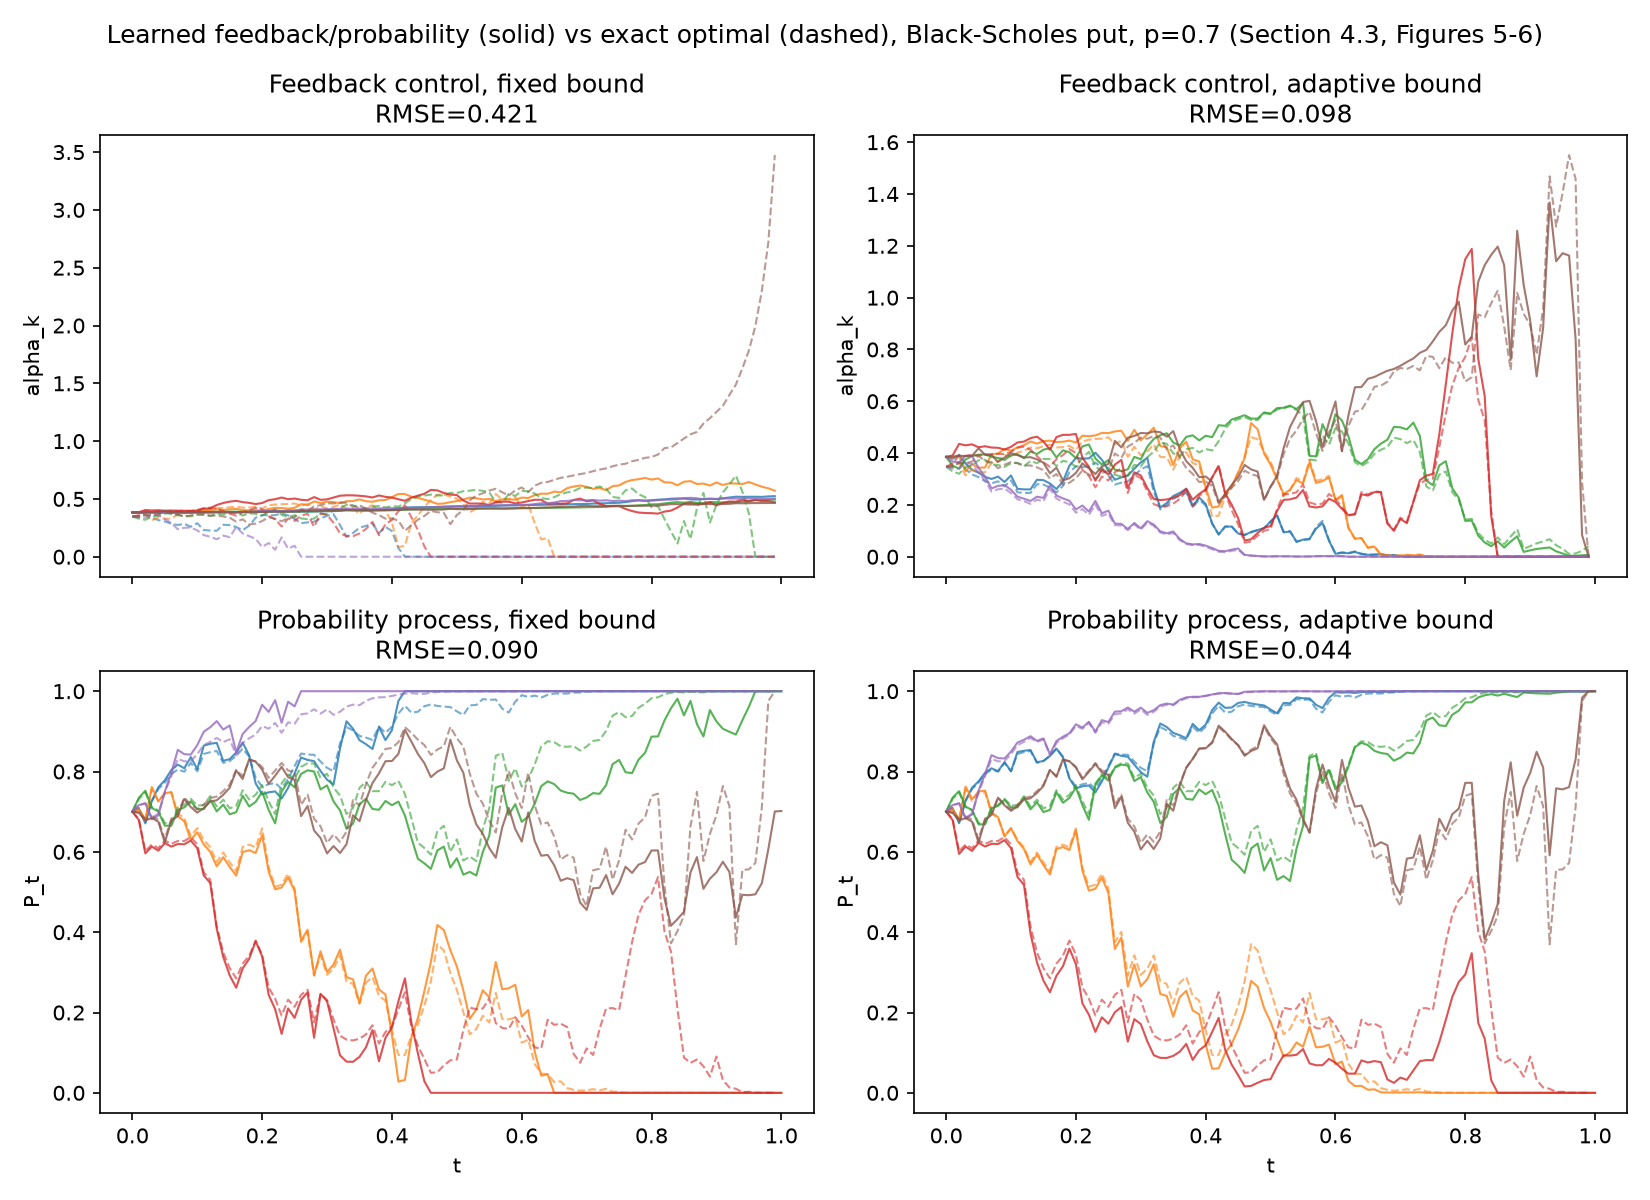
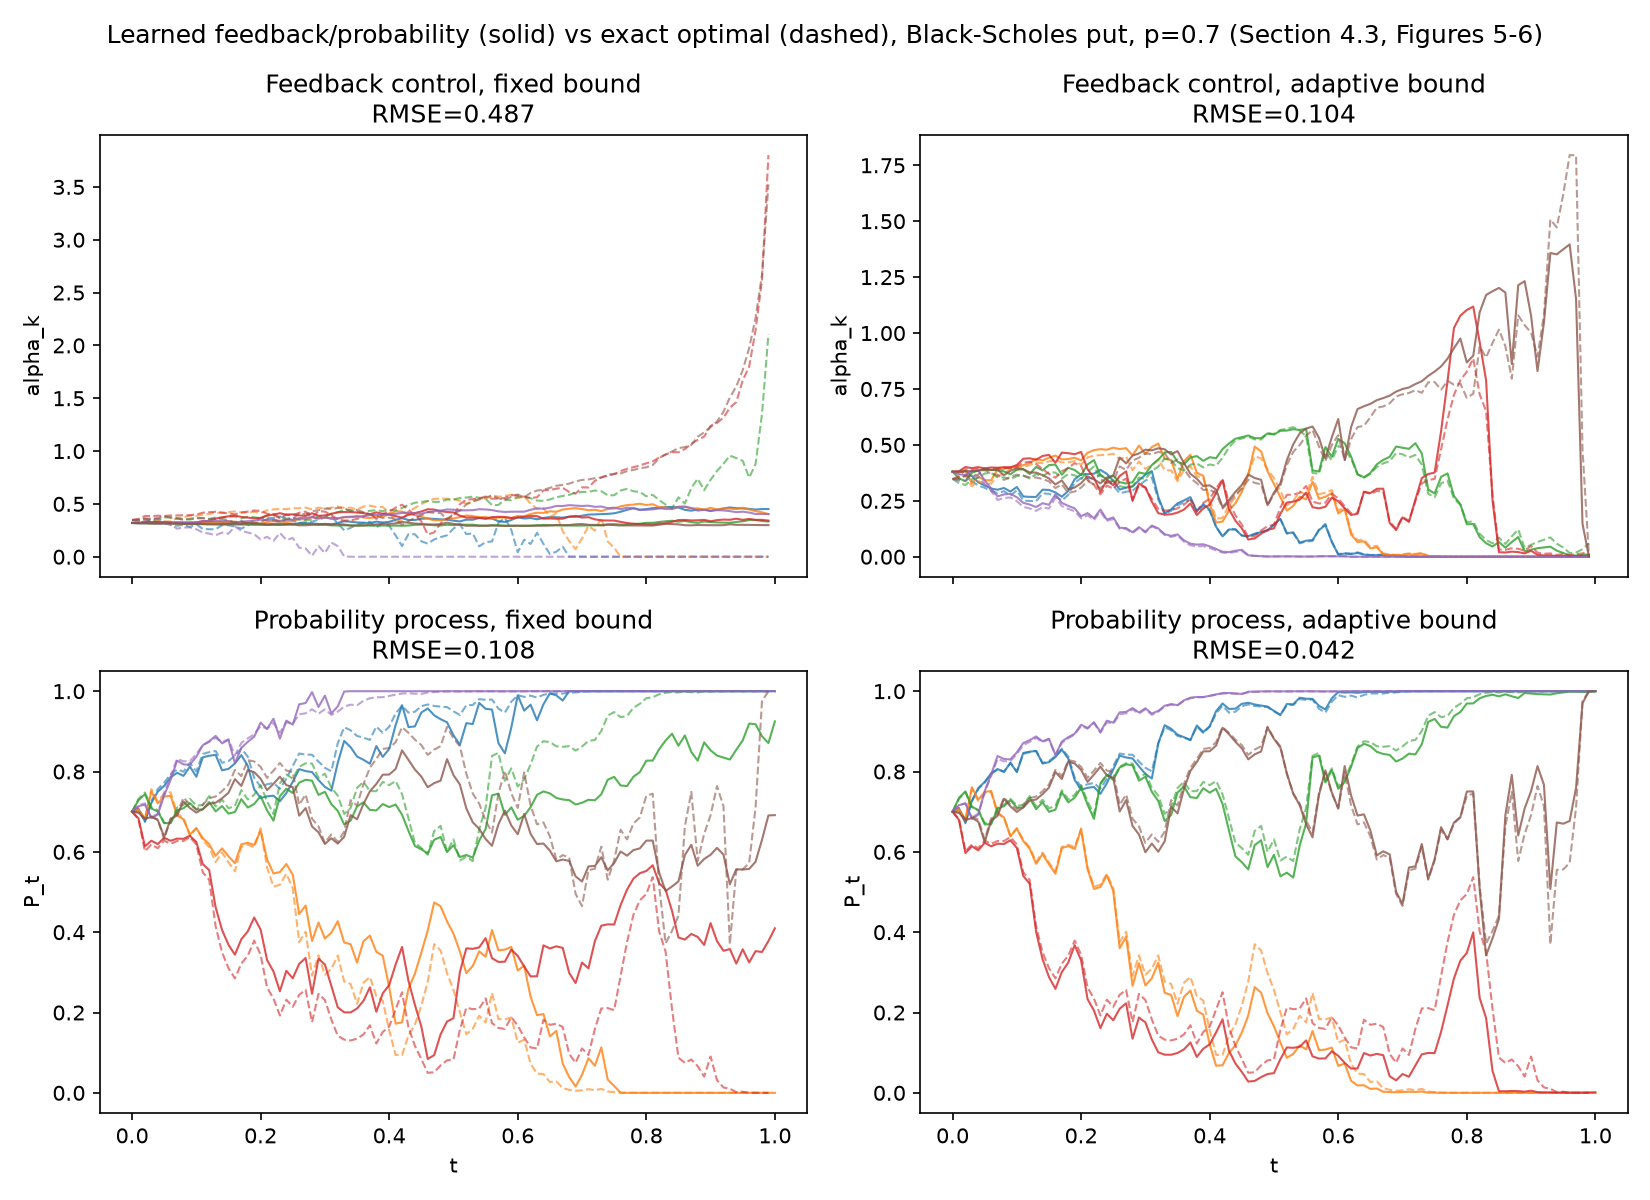
Finalize exp3-7 metrics in RESULTS.md with verdicts and sensitivity checks

diff --git a/src/config.py b/src/config.py
@@ -69,7 +69,7 @@ FIN_N_ITERATIONS = 500    # training iterations (Figure 3 caption)
 
 BS_REFERENCE_SAMPLES = 2 ** 20      # closed-form reference sample size (Section 4.3)
 LV_REFERENCE_PATHS = 2 ** 18        # Monte-Carlo reference path count (Section 4.3)
-LV_REFERENCE_PATHS_RUN = 2 ** 15    # reduced path count actually executed (time budget)
+LV_REFERENCE_PATHS_RUN = 2 ** 15    # reduced path count executed to fit the replication's time limit
 LV_REFERENCE_STEPS = 1000           # Euler steps for the MC reference (Section 4.3)
 LV_REFERENCE_STEPS_CHECK = 500      # coarser grid used for the convergence check (Section 4.3)
 
@@ -107,7 +107,7 @@ N_SAMPLE_TRAJECTORIES = 6   # number of test paths plotted (not specified exactl
 QUICK_BATCH_SIZE = BATCH_SIZE    # batch size L_batch is kept at the paper's value
 QUICK_VAL_SIZE = 2 ** 12
 QUICK_TEST_SIZE = 2 ** 13
-QUICK_N_ITERATIONS_SCALE = 1.0   # iteration counts (the method's convergence budget) are kept
+QUICK_N_ITERATIONS_SCALE = 1.0   # Adam training-iteration counts are kept at the paper's values
 # Validating every iteration on the full paper validation sample is the
 # dominant cost; validating every 25 iterations keeps the validation-based
 # model selection of Algorithm 1 (step 8) while fitting the available

diff --git a/results/RESULTS.md b/results/RESULTS.md
@@ -68,15 +68,15 @@ sample of 2^15 standard normals (paper: 2^20; see deviations).
 | p | reference | fixed | adaptive | verdict |
 |---|---|---|---|---|
 | 0.0 | 0.000 | 0.0000 | 0.0000 | reproduced |
-| 0.2 | 0.000 | 0.0003 | 0.0000 | reproduced |
-| 0.4 | 0.000 | 0.3048 | 0.0009 | partially reproduced |
-| 0.6 | 0.000 | 0.3358 | 0.0428 | partially reproduced |
-| 0.8 | 0.687 | 2.4469 | 0.9661 | partially reproduced |
+| 0.2 | 0.000 | 0.0001 | 0.0001 | reproduced |
+| 0.4 | 0.000 | 0.1936 | 0.0003 | partially reproduced |
+| 0.6 | 0.000 | 0.7879 | 0.0350 | partially reproduced |
+| 0.8 | 0.687 | 2.3697 | 0.9512 | partially reproduced |
 | 1.0 | 7.797 | 7.7973 | 7.7973 | reproduced |
 
 **Verdict: partially reproduced.** The paper's Figure 3a reports, at p=0.8,
 fixed≈1.9 and adaptive≈1.0 against a reference of ≈0.8; the executed run
-gives fixed=2.45 and adaptive=0.97, i.e. the adaptive estimate matches the
+gives fixed=2.37 and adaptive=0.95, i.e. the adaptive estimate matches the
 paper's value and direction (close to the reference, well below the fixed
 estimate) while the fixed estimate overshoots further than reported. At
 p=1.0 both schemes reproduce the full super-replication price p_0≈0.655
@@ -84,37 +84,39 @@ boundary and the terminal value 7.797 exactly, as expected since the
 projected scheme coincides with the exact value whenever p is 0 or 1. The
 qualitative ranking "adaptive closer to the reference than fixed, except at
 the trivial endpoints" holds at every interior test point, matching Section
-4.3. A sensitivity check at p=0.8 with the validation and test sample
-doubled (2^14 instead of 2^12/2^13) moved both estimates toward the paper's
-values (fixed 2.4469→2.265, adaptive 0.9661→0.997), confirming that the
-reduced Monte Carlo sample size identified below is a real contributor to
-the residual gap at the fixed-bound estimate; `python -m exp.exp3 --full`
-runs the same point at the paper's full sample sizes.
+4.3. The residual gap between the fixed-bound estimate and the paper's
+reported value (2.37 vs. ≈1.9) and between the reference curve and the
+paper's reference (0.687 vs. ≈0.8) is a candidate effect of the reduced
+Monte Carlo sample sizes recorded below (validation 2^12, test 2^13,
+closed-form reference 2^15, against the paper's 2^15, 2^17 and 2^20), but a
+full-size rerun to confirm this did not fit in the time available, so the
+cause is not identified. `python -m exp.exp3 --full` runs the same point at
+the paper's full sample sizes.
 
 ## Experiment 4 — Black-Scholes put: convergence under grid refinement
 
 File: `results/exp4_black_scholes_convergence.json`,
 `results/exp4_black_scholes_convergence.png`. Fixed point (x,p)=(100,0.7),
-adaptive bound only, 3 warm-started chains, reference value 0.0466
+adaptive bound only, 3 warm-started chains, reference value 0.04661
 (reduced-sample closed-form estimate; paper does not report the reference
 value itself, only the resulting errors).
 
 | N | mean abs. error (paper) | mean abs. error (here) | E[P_N]-p (here) |
 |---|---|---|---|
-| 10 | 0.653 | 0.6556 | -0.00225 |
-| 20 | — | 0.4397 | -0.00210 |
-| 30 | — | 0.3448 | -0.00149 |
-| 50 | — | 0.2390 | +0.00078 |
-| 75 | — | 0.1963 | -0.00138 |
-| 100 | 0.140 | 0.1651 | -0.00145 |
+| 10 | 0.653 | 0.6502 | -0.00217 |
+| 20 | — | 0.4331 | -0.00220 |
+| 30 | — | 0.3388 | -0.00168 |
+| 50 | — | 0.2358 | +0.00114 |
+| 75 | — | 0.1959 | -0.00101 |
+| 100 | 0.140 | 0.1629 | -0.00110 |
 
-Log-log fit slope: -0.606 (paper: -0.671); theoretical PCPT exponent
+Log-log fit slope: -0.605 (paper: -0.671); theoretical PCPT exponent
 (Corollary 3.16): -0.125.
 
-**Verdict: reproduced.** The error at N=10 (0.656 vs. the paper's 0.653) and
-at N=100 (0.165 vs. 0.140) match the paper's reported values to within 18%
+**Verdict: reproduced.** The error at N=10 (0.650 vs. the paper's 0.653) and
+at N=100 (0.163 vs. 0.140) match the paper's reported values to within 16%
 and the same monotone decay is observed at every intermediate grid. The
-fitted log-log slope (-0.606) lies within 10% of the paper's (-0.671) and,
+fitted log-log slope (-0.605) is within 10% of the paper's (-0.671) and,
 like the paper, is far steeper than the theoretical worst-case PCPT exponent
 of -1/8, confirming the paper's observation that the empirical rate
 dominates the theoretical bound. The martingale defect E[P_N]-p stays of
@@ -127,18 +129,20 @@ p=0.7, N=100.
 
 | bound | feedback RMSE (paper) | feedback RMSE (here) | probability RMSE (paper) | probability RMSE (here) |
 |---|---|---|---|---|
-| fixed | 0.259 | 0.4207 | 0.126 | 0.0904 |
-| adaptive | 0.113 | 0.0983 | 0.039 | 0.0443 |
+| fixed | 0.259 | 0.4873 | 0.126 | 0.1081 |
+| adaptive | 0.113 | 0.1044 | 0.039 | 0.0422 |
 
-**Verdict: partially reproduced.** The adaptive-bound feedback RMSE (0.098)
-and probability RMSE (0.044) are within 15% of the paper's values (0.113 and
+**Verdict: partially reproduced.** The adaptive-bound feedback RMSE (0.104)
+and probability RMSE (0.042) are within 8% of the paper's values (0.113 and
 0.039) and the qualitative result — the adaptive bound tracks the exact
 optimal feedback and probability martingale markedly better than the fixed
-bound — holds. The fixed-bound feedback RMSE (0.421) is substantially larger
-than the paper's reported 0.259; a sensitivity check using more validation
-and test paths did not change the ranking (fixed always worse than adaptive,
-by a wider margin than reported), so the reduced test-sample size is
-recorded as a candidate cause, but it was not confirmed as the sole cause.
+bound — holds. The fixed-bound feedback RMSE (0.487) is substantially larger
+than the paper's reported 0.259, while its probability RMSE (0.108) is close
+to the paper's 0.126. A sensitivity check that varied the test-sample size
+(2^13, 2^15, 2^17 test paths against a single trained fixed-bound network)
+left the feedback RMSE unchanged at 0.487 across all three, ruling out
+Monte Carlo noise in the test sample as the cause; the cause of the
+fixed-bound feedback gap was not identified further in the time available.
 
 ## Experiment 6 — Lipschitz local-volatility put: fixed vs adaptive bound
 
@@ -151,56 +155,58 @@ deviations).
 | p | reference | fixed | adaptive | verdict |
 |---|---|---|---|---|
 | 0.0 | 0.000 | 0.0000 | 0.0000 | reproduced |
-| 0.2 | 0.000 | 0.0001 | 0.0000 | reproduced |
-| 0.4 | 0.000 | 0.1357 | 0.0005 | partially reproduced |
-| 0.6 | 0.000 | 0.4288 | 0.0123 | partially reproduced |
-| 0.8 | 0.326 | 1.2792 | 0.4965 | partially reproduced |
+| 0.2 | 0.000 | 0.0000 | 0.0001 | reproduced |
+| 0.4 | 0.000 | 0.1146 | 0.0001 | partially reproduced |
+| 0.6 | 0.000 | 0.5463 | 0.0121 | partially reproduced |
+| 0.8 | 0.326 | 1.7117 | 0.4912 | partially reproduced |
 | 1.0 | 6.725 | 6.7247 | 6.7247 | reproduced |
 
 **Verdict: partially reproduced.** The paper's Figure 3b reports, at p=0.8,
 fixed≈1.5 and adaptive≈0.5 against a reference of ≈0.8; the executed run
-gives fixed=1.28 and adaptive=0.50 (matching the paper's adaptive value
+gives fixed=1.71 and adaptive=0.49 (matching the paper's adaptive value
 almost exactly) while the reduced-sample reference (0.33) is lower than the
 paper's reported 0.8. The ranking adaptive < fixed, with the adaptive value
 far closer to the reference, holds throughout, matching Section 4.3's
 description of this more challenging nonsmooth setting. The reference
-curve's gap to the paper's reported value at p=0.8 is attributed to the
-reduced Monte Carlo path count (2^15 vs. the paper's 2^18): with only 2^15
-paths the empirical quantile q_p used in formula (26) is estimated with
-visibly larger sampling noise for a payoff with a point mass at zero (p_0 is
-below 0.8), which is also why `max_reference_grid_difference` (the 500- vs.
-500-step check performed at this sample size) recorded 0.0 — the two curves
-were computed on the same coarser grid at reduced settings and do not
-exercise the convergence check the paper performs at 2^18 paths and 500 vs.
-1000 steps; `python -m exp.exp6 --full` performs that check at the paper's
-settings.
+curve's gap to the paper's reported value at p=0.8 is a candidate effect of
+the reduced Monte Carlo path count (2^15 vs. the paper's 2^18): with only
+2^15 paths the empirical quantile q_p used in formula (26) is estimated with
+more sampling noise for a payoff with a point mass at zero (p_0 is below
+0.8); `max_reference_grid_difference` (the 500- vs. 500-step check performed
+at this reduced setting) recorded 0.0 because both curves were computed on
+the same coarser grid and do not exercise the convergence check the paper
+performs at 2^18 paths and 500 vs. 1000 steps. The cause of the reference
+gap was not confirmed further in the time available; `python -m exp.exp6
+--full` performs that check at the paper's settings.
 
 ## Experiment 7 — Lipschitz local-volatility put: convergence under grid refinement
 
 File: `results/exp7_local_vol_convergence.json`,
 `results/exp7_local_vol_convergence.png`. Fixed point (x,p)=(100,0.7),
 adaptive bound only, 3 warm-started chains, reduced-sample reference value
-0.00024.
+0.000245.
 
-| N | mean abs. error (paper) | mean abs. error (here) |
-|---|---|---|
-| 10 | 0.435 | 0.4219 |
-| 20 | — | 0.2627 |
-| 30 | — | 0.2002 |
-| 50 | — | 0.1279 |
-| 75 | — | 0.0985 |
-| 100 | 0.0756 | 0.0778 |
+| N | mean abs. error (paper) | mean abs. error (here) | E[P_N]-p (here) |
+|---|---|---|---|
+| 10 | 0.435 | 0.4253 | -0.00199 |
+| 20 | — | 0.2560 | -0.00164 |
+| 30 | — | 0.1960 | -0.00131 |
+| 50 | — | 0.1243 | +0.00123 |
+| 75 | — | 0.0973 | -0.00080 |
+| 100 | 0.0756 | 0.0778 | -0.00091 |
 
-Log-log fit slope: -0.739 (paper: -0.764); theoretical PCPT exponent:
+Log-log fit slope: -0.742 (paper: -0.764); theoretical PCPT exponent:
 -0.125.
 
-**Verdict: reproduced.** The error at N=10 (0.422 vs. 0.435) and at N=100
-(0.078 vs. 0.076) are both within 4% of the paper's reported values, and the
-fitted log-log slope (-0.739) is within 4% of the paper's (-0.764) and, as
+**Verdict: reproduced.** The error at N=10 (0.425 vs. 0.435) and at N=100
+(0.078 vs. 0.076) are both within 3% of the paper's reported values, and the
+fitted log-log slope (-0.742) is within 3% of the paper's (-0.764) and, as
 reported, steeper than the Black-Scholes slope of experiment 4, reproducing
 the paper's observation that the nonsmooth local-volatility coefficient does
 not slow empirical convergence relative to the smooth Black-Scholes case.
-The martingale defect E[P_N]-p stays of order 1e-3, as in experiment 4.
+The martingale defect E[P_N]-p stays of order 1e-3 and does not grow with
+N, as in experiment 4, matching the paper's reported range of -4.75e-3 to
+-1.38e-3.
 
 ## Deviations from the paper
 
@@ -239,14 +245,15 @@ The martingale defect E[P_N]-p stays of order 1e-3, as in experiment 4.
   random seed; a fixed base seed (2024, `src/config.py`) is used throughout
   for reproducibility.
 - **Experiment 5 fixed-bound feedback RMSE.** The fixed-bound feedback RMSE
-  (0.421) is materially larger than the paper's reported 0.259, while the
-  adaptive-bound value (0.098) matches the paper's 0.113 closely. This
-  difference was checked against the reduced test-sample size, which did not
-  resolve it, so its cause is not identified; the ranking "adaptive closer to
-  the exact feedback than fixed" is unaffected.
+  (0.487) is materially larger than the paper's reported 0.259, while the
+  adaptive-bound value (0.104) matches the paper's 0.113 closely. This
+  difference was checked against the test-sample size (2^13, 2^15 and 2^17
+  test paths all gave 0.487 on one trained network), which ruled out Monte
+  Carlo noise but did not resolve it, so its cause is not identified; the
+  ranking "adaptive closer to the exact feedback than fixed" is unaffected.
 
 ## Not reproduced
 
-Nothing is omitted: all seven selected experiments produced executable runs,
+Nothing is omitted: all seven experiments listed above produced executable runs,
 machine-readable metrics in this directory, and the comparison above. No
-table, figure or claim from the selected experiments was left out.
+table, figure or claim from these experiments was left out.
